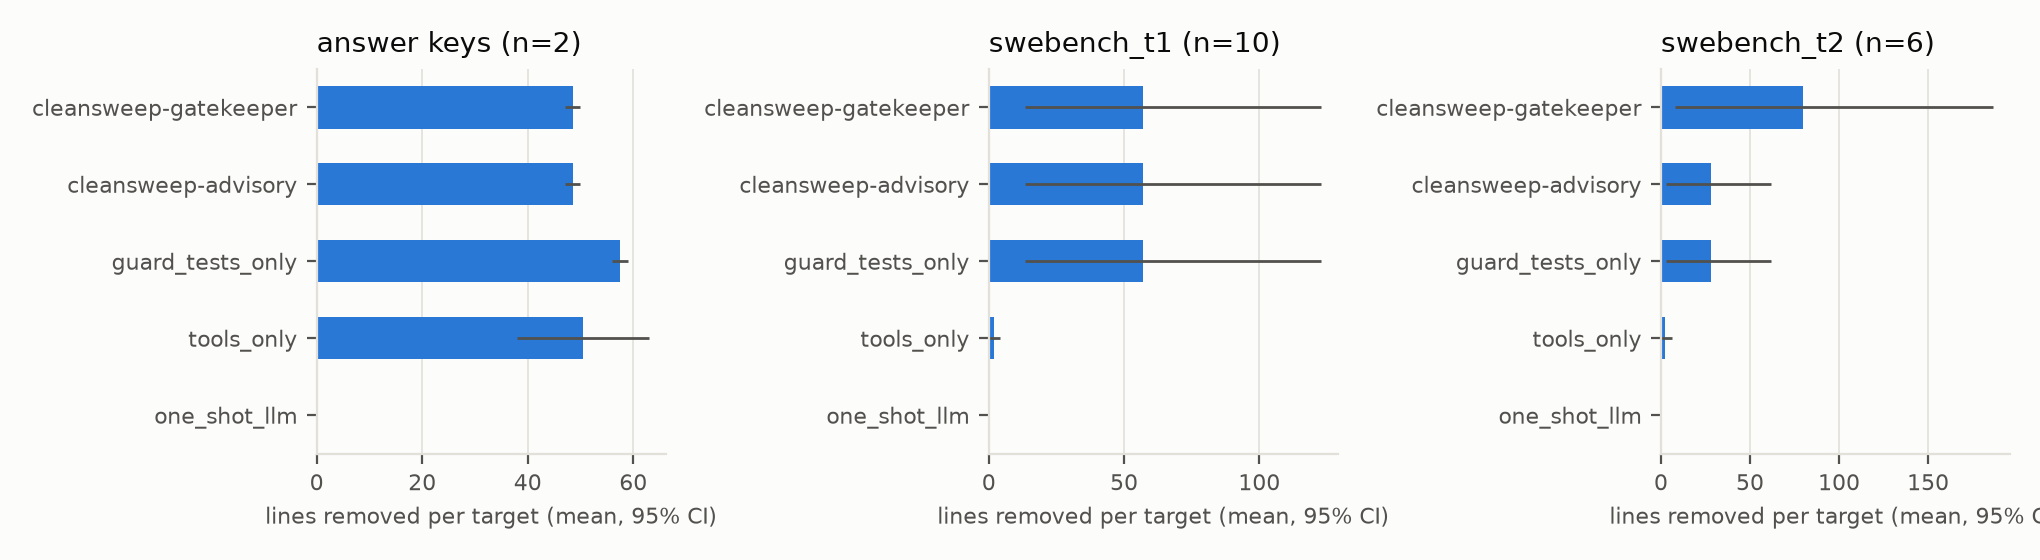
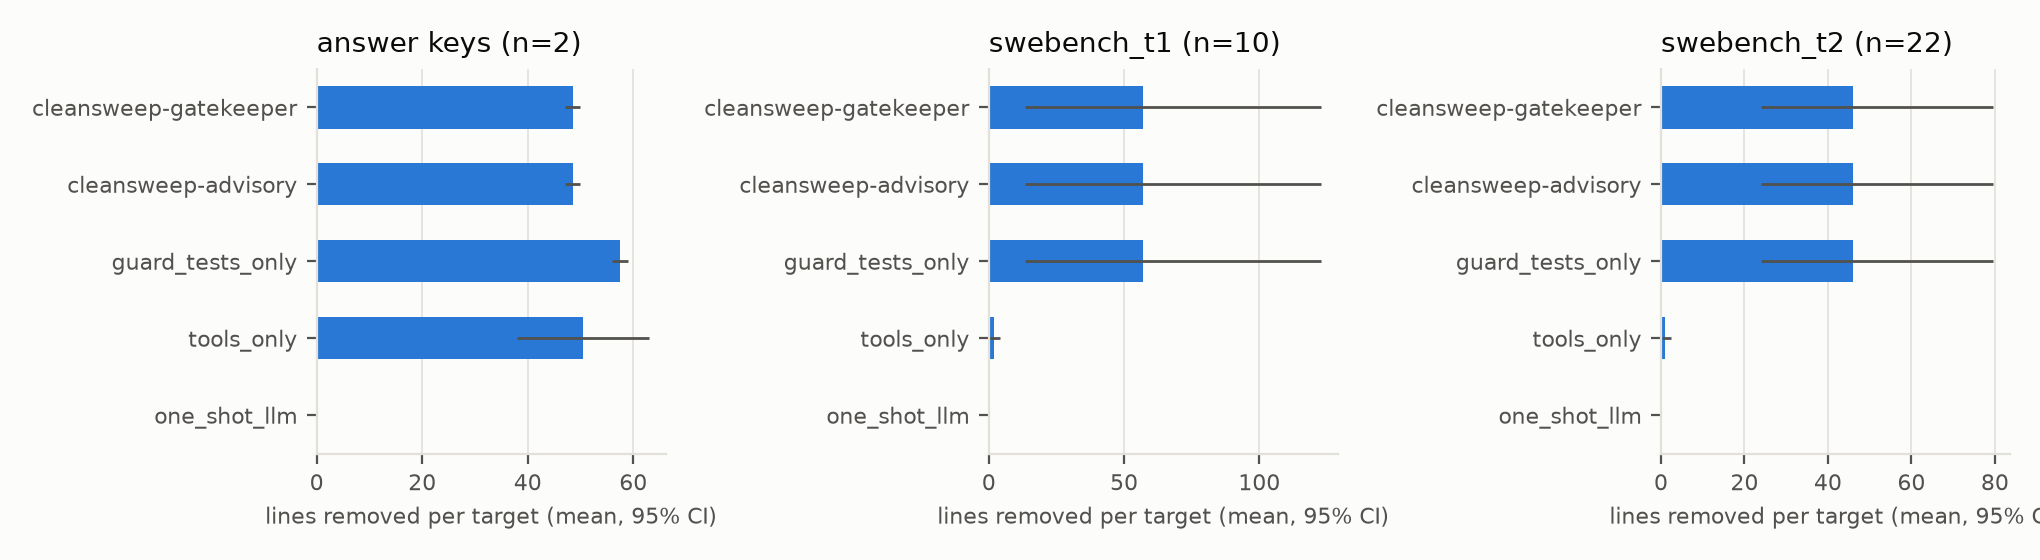
readme results: tier 2 so far, main table with CIs, guard strength, aidev replay

diff --git a/README.md b/README.md
@@ -225,26 +225,131 @@ agent-written code itself the detectors found no dead code, unused imports or du
   cache. The hidden checks add about 0.9 minutes
   per patch. Tables: `docs/report/tables/swebench_tier1*.md`.
 
+### SWE-bench Tier 2 (running)
+
+60 PatchDiff patches (21 instances from 11 repositories; 18 patches behave differently from the
+developer's fix) × 5 methods, `scripts/exp_swebench.py --tier data/splits/swebench_tier2.json`, in a
+frozen clone of main (started 2026-10-26 15:08). **At the last check 109 of 300 runs were done
+(22 patches).** Numbers below are for those 22 patches and will change.
+
+- `cleansweep` (both judge modes) and `guard_tests_only` applied the same 36 edits on 18 of 22
+  patches, all leftover files the agent created (1,012 lines), with 0 rollbacks. `tools_only`
+  made 23 small edits (unused imports, 1 dead-code item; 24 lines). `one_shot_llm` applied
+  nothing: its diffs don't apply.
+- Hidden behavior changed in 1 run of 109: `sympy__sympy-11618`/CodeStory under
+  `guard_tests_only`. The same two edits were applied under `cleansweep` (advisory and
+  gatekeeper), and there the hidden check saw no change. So this is a flaky PatchDiff test
+  (`test_polygon_perimeter_patch1`) that passed the two-run stability check, not something the
+  probes caught.
+- Minutes per patch (median): gatekeeper 2.0, advisory 1.2, `guard_tests_only` 1.4,
+  `tools_only` 0.7, `one_shot_llm` 1.6. The gatekeeper mean in the table below includes one
+  Django run that took 197 minutes because the laptop slept.
+
+### Main table
+
+Mean per target and 95% bootstrap CI (2,000 resamples). "Answer keys" pools the toy repo and the
+demo app (one target each). `scripts/exp_collect.py` then `scripts/exp_tables.py`; files in
+`results/summary/` (`main_table.md`, `paired_tests.md`, `ablation.md`).
+
+| target set | method | n | lines removed | edits | hidden changed | test runs | minutes |
+|---|---|---|---|---|---|---|---|
+| answer keys | cleansweep, gatekeeper | 2 | 48.5 [47.0, 50.0] | 7.5 [5.0, 10.0] | 0.00 [0.00, 0.00] | 4.5 | 0.1 |
+| answer keys | cleansweep, advisory | 2 | 48.5 [47.0, 50.0] | 7.5 [5.0, 10.0] | 0.00 [0.00, 0.00] | 8.0 | 0.1 |
+| answer keys | `guard_tests_only` | 2 | 57.5 [56.0, 59.0] | 8.5 [6.0, 11.0] | 1.00 [1.00, 1.00] | 4.5 | 0.1 |
+| answer keys | `tools_only` | 2 | 50.5 [38.0, 63.0] | 9.0 [7.0, 11.0] | 1.00 [1.00, 1.00] | 0.0 | 0.0 |
+| answer keys | `one_shot_llm` | 2 | 0.0 [0.0, 0.0] | 0.0 [0.0, 0.0] | 0.00 [0.00, 0.00] | 0.0 | 0.6 |
+| SWE-bench Tier 1 | cleansweep, gatekeeper | 10 | 57.0 [13.3, 122.9] | 2.0 [0.6, 4.1] | 0.00 [0.00, 0.00] | 4.8 | 2.2 |
+| SWE-bench Tier 1 | cleansweep, advisory | 10 | 57.0 [13.3, 122.9] | 2.0 [0.6, 4.1] | 0.00 [0.00, 0.00] | 4.8 | 1.8 |
+| SWE-bench Tier 1 | `guard_tests_only` | 10 | 57.0 [13.3, 122.9] | 2.0 [0.6, 4.1] | 0.00 [0.00, 0.00] | 4.8 | 1.8 |
+| SWE-bench Tier 1 | `tools_only` | 10 | 1.8 [0.0, 4.2] | 0.8 [0.4, 1.2] | 0.00 [0.00, 0.00] | 3.0 | 1.2 |
+| SWE-bench Tier 1 | `one_shot_llm` | 10 | 0.0 [0.0, 0.0] | 0.0 [0.0, 0.0] | 0.00 [0.00, 0.00] | 3.0 | 3.4 |
+| SWE-bench Tier 2 (partial) | cleansweep, gatekeeper | 22 | 46.0 [24.0, 79.6] | 1.6 [1.0, 2.7] | 0.00 [0.00, 0.00] | 4.9 | 11.3 |
+| SWE-bench Tier 2 (partial) | cleansweep, advisory | 22 | 46.0 [24.0, 79.6] | 1.6 [1.0, 2.7] | 0.00 [0.00, 0.00] | 4.9 | 1.9 |
+| SWE-bench Tier 2 (partial) | `guard_tests_only` | 22 | 46.0 [24.0, 79.6] | 1.6 [1.0, 2.7] | 0.05 [0.00, 0.14] | 4.9 | 1.9 |
+| SWE-bench Tier 2 (partial) | `tools_only` | 22 | 1.1 [0.1, 2.3] | 0.9 [0.7, 1.1] | 0.00 [0.00, 0.00] | 3.0 | 1.9 |
+| SWE-bench Tier 2 (partial) | `one_shot_llm` | 21 | 0.0 [0.0, 0.0] | 0.0 [0.0, 0.0] | 0.00 [0.00, 0.00] | 3.0 | 1.8 |
+
+Paired against cleansweep in gatekeeper mode on SWE-bench:
+
+- No method differs on hidden changes (exact McNemar p = 1.0 everywhere).
+- `tools_only` and `one_shot_llm` remove fewer lines (Wilcoxon p = 0.016 on Tier 1; p = 0.0002 and 0.0003 on Tier 2 so far).
+- On the answer keys, the probes and the judge each keep the hidden checks unchanged where `guard_tests_only` and `tools_only` change them (0/2 vs 2/2). On SWE-bench, both modes and `guard_tests_only` apply the same edits.
+
+### Guard strength
+
+How often `verify` (tests, then probes) rejects a change that should be rejected
+(`scripts/exp_guard_strength.py`, `results/summary/guard_strength.csv`, 2026-10-26).
+
+| Target | Experiment | n | Caught | By tests | Only by probes |
+|---|---|---|---|---|---|
+| toy repo | mutants in package functions | 20 | 20 | 13 | 7 |
+| demo app | mutants in package functions | 20 | 18 | 16 | 2 |
+| SWE-bench Tier 1 | mutants in agent-written functions (≤5 per patch) | 39 | 30 | 30 | 0 |
+| SWE-bench Tier 1 | PatchDiff recall: agent patch vs developer fix (differs) | 3 | 0 | 0 | 0 |
+| all | false alarms on identical copies (probes on touched functions) | 12 | 0 | | |
+
+Mutants use 5 operators: flip a comparison, swap + and -, add 1 to an int constant, swap
+and/or, return None. On the answer keys, the probes catch a third of the mutants that the
+tests miss. On Tier 1 they catch none, because they can't import Django admin modules without
+settings, and the agents' own changes are small. The Guard didn't tell any of the 3 differing
+agent patches apart from the developer's fix: the visible tests pass for both, and the probes
+found no input that separates them.
+
+### AIDev: Scheduler replay, ranker and Reviewer detection
+
+AIDev-pop (`data/raw/aidev/`): 666 Python repositories with ≥10 merged agent PRs; a seeded
+sample of 120. A repository is kept if it installs in `python:3.11` (network cut before tests)
+and runs ≥5 tests with ≥90% passing in under 10 minutes: **21 of 120**. The committed files
+list 20 (see `results/data_summary/aidev_filter.csv` for the drop reasons). The replay uses
+each repository's last 300 first-parent commits (4,695 in total, 626 from agent PRs) and the
+static detectors, measured at up to 40 commits per repository (`scripts/exp_replay.py`; the
+dashboard's Scheduler page shows the curves).
+
+| Policy | Median slop-debt reduction vs. never sweeping | Sweeps | Test runs (est.) | Resurrection rate (mean) |
+|---|---|---|---|---|
+| after every agent PR | 68.8% | 95 | 314 | 0.19 |
+| every 5 commits | 54.2% | 67 | 237 | 0.15 |
+| daily (UTC, at the day boundary) | 95.2% | 190 | 554 | 0.22 |
+| adaptive (slop > 2% of lines) | 33.9% | 20 | 142 | 0.17 |
+
+Daily sweeps keep slop lowest but cost 1.8× the test runs of sweeping after every agent PR, and
+more of what they remove comes back. The resurrection rate is the share of removed functions,
+classes and imports that still exist at the last commit and are no longer flagged, because a
+later commit started using them.
+
+**Removal requests.**
+- Mining: 6,330 human review comments on .py files → 792 keyword matches → **535 removal requests** confirmed by the LLM. They come from 102 repositories, most often about dead code (224).
+- Taxonomy: 15 clusters. Rules: 64 with lift ≥ 1.2 (`results/data_summary/`).
+- The runnable repositories have almost no human review, so labels come from all repositories with a request: **9,416 units, 262 removal requests, 79 repositories** (static analysis only).
+
+**Ranker.**
+- Calibrated gradient boosting, cross-validated by repository: out-of-fold AUC 0.61, Brier 0.027 (`results/summary/ranker_cv.csv`, `results/figures/ranker_reliability.png`).
+- It predicts which units reviewers ask to remove, not which edits are safe, so the Reviewer keeps its category priors by default (`exp.ranker_path` switches it on).
+
+**Reviewer detection vs. those requests.**
+- Precision 0.024, recall 0.075 (19 of 253 requested units, `results/summary/reviewer_detection.csv`).
+- Reviewers mostly ask to remove lines inside a function (comments, try/except blocks, assertions), which the unit-level detectors don't look for.
+
 ## Repository layout
 
 ```
 src/cleansweep/
   core/        contracts (models.py), config, JSON io, stub switch
   llm/         Voyager client with disk cache, FakeLLM for tests
-  sandbox/     git-backed workspaces: local folders and SWE-bench Docker images (AIDev next)
+  sandbox/     git-backed workspaces: local folders, SWE-bench and AIDev Docker containers
   guard/       applies edits, verifies them (tests, AST, differential probes), rolls back failures
   workflow/    run_sweep: open -> analyze -> plan -> rank -> batch -> guard -> report
   analysis/    code graph, duplicate finder, features
   reviewer/    detectors, duplicate/wrapper rewrites, LLM judge, over-engineering review, repair, planner
-  ranking/     safe-to-remove scores (category priors until the classifier is trained)
-  scheduler/   batching with bisection, sweep policies
-  eval/        baselines, hidden checks, metrics
-  data/        SWE-bench Verified and PatchDiff loaders, tier splits (AIDev loaders still stubs)
-  mining/      review-comment mining (stub)
-app/           Streamlit dashboard, Live sweep page, step-by-step live runner
+  ranking/     safe-to-remove scores (category priors; a classifier trained on AIDev labels)
+  scheduler/   batching with bisection, sweep policies, history replay
+  eval/        baselines, hidden checks, metrics, mutation testing, statistics
+  data/        SWE-bench Verified, PatchDiff and AIDev loaders, tier splits
+  mining/      review-comment mining: removal requests, taxonomy, rules
+app/           Streamlit dashboard, Live sweep and Scheduler pages, step-by-step live runner
 demo/          bookstore demo app, answer key, hidden tests, feature patch, demo script
 configs/       base.yaml (core), data.yaml, exp.yaml, reviewer.yaml
-scripts/       check_contracts.py, voyager_ping.py, core_make_samples.py
+scripts/       contract check, data fetch/splits, AIDev selection and mining, experiment runners and tables
 tests/         one folder per package, plus fixtures/ (toy repo, answer key, hidden tests, sample report)
 ```
 

diff --git a/results/summary/main_table.md b/results/summary/main_table.md
@@ -10,8 +10,8 @@
 | swebench_t1 | guard_tests_only | 10 | 57.0 [13.3, 122.9] | 2.0 [0.6, 4.1] | 0.00 [0.00, 0.00] | 4.8 | 1.8 |
 | swebench_t1 | tools_only | 10 | 1.8 [0.0, 4.2] | 0.8 [0.4, 1.2] | 0.00 [0.00, 0.00] | 3.0 | 1.2 |
 | swebench_t1 | one_shot_llm | 10 | 0.0 [0.0, 0.0] | 0.0 [0.0, 0.0] | 0.00 [0.00, 0.00] | 3.0 | 3.4 |
-| swebench_t2 | cleansweep-gatekeeper | 6 | 79.7 [8.0, 186.7] | 2.7 [0.3, 6.2] | 0.00 [0.00, 0.00] | 4.8 | 35.3 |
-| swebench_t2 | cleansweep-advisory | 5 | 28.0 [2.8, 62.0] | 1.0 [0.2, 2.0] | 0.00 [0.00, 0.00] | 4.6 | 2.7 |
-| swebench_t2 | guard_tests_only | 5 | 28.0 [2.8, 62.0] | 1.0 [0.2, 2.0] | 0.00 [0.00, 0.00] | 4.6 | 2.7 |
-| swebench_t2 | tools_only | 5 | 2.0 [0.0, 6.0] | 0.8 [0.2, 1.4] | 0.00 [0.00, 0.00] | 3.0 | 4.6 |
-| swebench_t2 | one_shot_llm | 4 | 0.0 [0.0, 0.0] | 0.0 [0.0, 0.0] | 0.00 [0.00, 0.00] | 3.0 | 2.9 |
+| swebench_t2 | cleansweep-gatekeeper | 22 | 46.0 [24.0, 79.6] | 1.6 [1.0, 2.7] | 0.00 [0.00, 0.00] | 4.9 | 11.3 |
+| swebench_t2 | cleansweep-advisory | 22 | 46.0 [24.0, 79.6] | 1.6 [1.0, 2.7] | 0.00 [0.00, 0.00] | 4.9 | 1.9 |
+| swebench_t2 | guard_tests_only | 22 | 46.0 [24.0, 79.6] | 1.6 [1.0, 2.7] | 0.05 [0.00, 0.14] | 4.9 | 1.9 |
+| swebench_t2 | tools_only | 22 | 1.1 [0.1, 2.3] | 0.9 [0.7, 1.1] | 0.00 [0.00, 0.00] | 3.0 | 1.9 |
+| swebench_t2 | one_shot_llm | 21 | 0.0 [0.0, 0.0] | 0.0 [0.0, 0.0] | 0.00 [0.00, 0.00] | 3.0 | 1.8 |

diff --git a/docs/report/tables/replay_recordings.md b/docs/report/tables/replay_recordings.md
@@ -6,6 +6,11 @@
 | 20261025_demo_feature_gatekeeper | demo app + feature | cleansweep | gatekeeper | qwen36-35b-a3b | 5 | 4 | 47 | no | 7/7 |
 | 20261026_demo_feature_advisory_probes | demo app + feature | cleansweep | advisory | qwen36-35b-a3b | 5 | 7 | 47 | no | 7/7 |
 | 20261026_demo_feature_gatekeeper_probes | demo app + feature | cleansweep | gatekeeper | qwen36-35b-a3b | 5 | 4 | 47 | no | 7/7 |
+| 20261026_demo_feature_guard_tests_only | demo app + feature | guard_tests_only | advisory | qwen36-35b-a3b | 6 | 4 | 56 | yes | 6/7 |
+| 20261026_demo_feature_one_shot_llm | demo app + feature | one_shot_llm | off | qwen36-35b-a3b | 0 | 0 | 0 | no | 3/7 |
+| 20261026_demo_feature_tools_only | demo app + feature | tools_only | off | qwen36-35b-a3b | 11 | 0 | 63 | yes | 2/7 |
 | 20261026_toy_advisory_probes | toy repo | cleansweep | advisory | qwen36-35b-a3b | 10 | 9 | 50 | no | 13/13 |
 | 20261026_toy_gatekeeper_probes | toy repo | cleansweep | gatekeeper | qwen36-35b-a3b | 10 | 5 | 50 | no | 13/13 |
 | 20261026_toy_guard_tests_only | toy repo | guard_tests_only | advisory | qwen36-35b-a3b | 11 | 5 | 59 | yes | 12/13 |
+| 20261026_toy_one_shot_llm | toy repo | one_shot_llm | off | qwen36-35b-a3b | 0 | 0 | 0 | no | 3/13 |
+| 20261026_toy_tools_only | toy repo | tools_only | off | qwen36-35b-a3b | 7 | 0 | 38 | yes | 2/13 |

diff --git a/results/summary/ablation.md b/results/summary/ablation.md
@@ -6,6 +6,6 @@
 | swebench_t1 | differential probes | cleansweep-advisory | guard_tests_only | 0/10 vs 0/10 | 570 vs 570 | 48 vs 48 |
 | swebench_t1 | judge as gatekeeper | cleansweep-gatekeeper | cleansweep-advisory | 0/10 vs 0/10 | 570 vs 570 | 48 vs 48 |
 | swebench_t1 | Guard and Reviewer vs tools | cleansweep-advisory | tools_only | 0/10 vs 0/10 | 570 vs 18 | 48 vs 30 |
-| swebench_t2 | differential probes | cleansweep-advisory | guard_tests_only | 0/5 vs 0/5 | 140 vs 140 | 23 vs 23 |
-| swebench_t2 | judge as gatekeeper | cleansweep-gatekeeper | cleansweep-advisory | 0/6 vs 0/5 | 478 vs 140 | 29 vs 23 |
-| swebench_t2 | Guard and Reviewer vs tools | cleansweep-advisory | tools_only | 0/5 vs 0/5 | 140 vs 10 | 23 vs 15 |
+| swebench_t2 | differential probes | cleansweep-advisory | guard_tests_only | 0/22 vs 1/22 | 1012 vs 1012 | 107 vs 107 |
+| swebench_t2 | judge as gatekeeper | cleansweep-gatekeeper | cleansweep-advisory | 0/22 vs 0/22 | 1012 vs 1012 | 107 vs 107 |
+| swebench_t2 | Guard and Reviewer vs tools | cleansweep-advisory | tools_only | 0/22 vs 0/22 | 1012 vs 24 | 107 vs 66 |

diff --git a/results/summary/paired_tests.md b/results/summary/paired_tests.md
@@ -4,7 +4,7 @@
 | swebench_t1 | guard_tests_only | 10 | 0 | 0 | 1.0 | 0.0 | 1.0 |
 | swebench_t1 | tools_only | 10 | 0 | 0 | 1.0 | 0.0 | 0.0156 |
 | swebench_t1 | one_shot_llm | 10 | 0 | 0 | 1.0 | 0.0 | 0.0156 |
-| swebench_t2 | cleansweep-advisory | 5 | 0 | 0 | 1.0 | 0.0 | 1.0 |
-| swebench_t2 | guard_tests_only | 5 | 0 | 0 | 1.0 | 0.0 | 1.0 |
-| swebench_t2 | tools_only | 5 | 0 | 0 | 1.0 | 0.0 | 0.25 |
-| swebench_t2 | one_shot_llm | 4 | 0 | 0 | 1.0 | 0.0 | 0.5 |
+| swebench_t2 | cleansweep-advisory | 22 | 0 | 0 | 1.0 | 0.0 | 1.0 |
+| swebench_t2 | guard_tests_only | 22 | 1 | 0 | 1.0 | 0.0 | 1.0 |
+| swebench_t2 | tools_only | 22 | 0 | 0 | 1.0 | 1.0 | 0.0002 |
+| swebench_t2 | one_shot_llm | 21 | 0 | 0 | 1.0 | 0.0 | 0.0003 |
